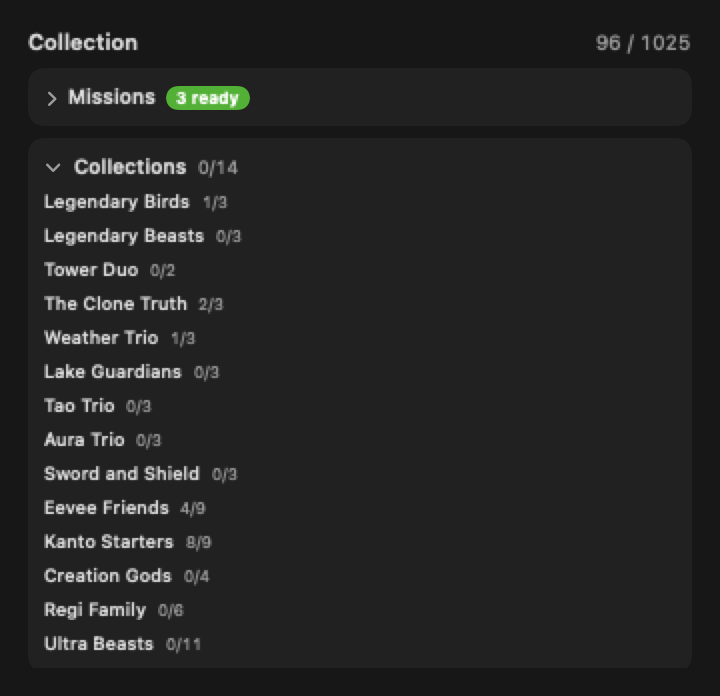
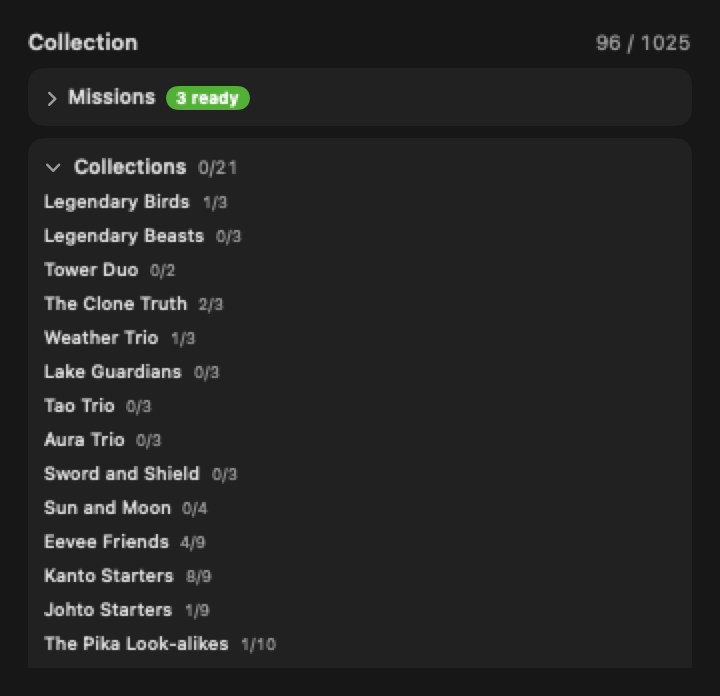
feat: seven more collection sets, fossils included
Per the user's ask for more variety, the catalog grows from fourteen to
twenty-one sets, each verified species-by-species against the slug
table:

- Revived Fossils: all 25 fossil Pokemon across six generations,
  restored lines included (EXP Candy x20)
- Pseudo-Legendaries, the 600 club: final stages only -- the title
  belongs to the finished form, so a Dratini must not fill it
  (Legendary ticket)
- Ancient and Future Paradoxes: ten each, split the way Scarlet and
  Violet split them, pinned disjoint (Legendary ticket each)
- The Pika Look-alikes: the once-a-generation electric mascot lineage,
  Mimikyu admitted for the costume (EXP Candy x10)
- Johto Starters (EXP Candy x10) and Sun and Moon
  (Lunatone/Solrock/Solgaleo/Lunala, badge only)

Lore pins added for the new sets: fossil count and generation coverage,
no pre-evolutions in the 600 club, paradox disjointness. Dropping the
Gen 8 fossils breaks 2 tests.

Changed region(s): [[0.0611, 0.8147, 0.3972, 0.9353], [0.0611, 0.7241, 0.3056, 0.7845], [0.3056, 0.2112, 0.3361, 0.2716]]

diff --git a/Sources/PokeDexBar/Player/CollectionCatalog.swift b/Sources/PokeDexBar/Player/CollectionCatalog.swift
@@ -28,6 +28,8 @@ enum CollectionCatalog {
         CollectionSet(id: "tao-trio", speciesIDs: [643, 644, 646], rewards: nil),
         CollectionSet(id: "aura-trio", speciesIDs: [716, 717, 718], rewards: nil),
         CollectionSet(id: "sword-shield", speciesIDs: [888, 889, 890], rewards: nil),
+        // 해와 달 — 루나톤·솔록(3세대의 달·해)과 솔가레오·루나아라(7세대의 해·달)를 잇는다.
+        CollectionSet(id: "sun-moon", speciesIDs: [337, 338, 791, 792], rewards: nil),
         // 중간 크기 — 진화가 필요한 세트는 경험치 사탕이 어울린다(그 사탕으로 마저 진화시킨다).
         CollectionSet(id: "eevee-friends",
                       speciesIDs: [133, 134, 135, 136, 196, 197, 470, 471, 700],
@@ -35,6 +37,19 @@ enum CollectionCatalog {
         CollectionSet(id: "kanto-starters",
                       speciesIDs: [1, 2, 3, 4, 5, 6, 7, 8, 9],
                       rewards: [.item(.expCandy, 10)]),
+        CollectionSet(id: "johto-starters",
+                      speciesIDs: [152, 153, 154, 155, 156, 157, 158, 159, 160],
+                      rewards: [.item(.expCandy, 10)]),
+        // 피카츄 닮은꼴 — 세대마다 하나씩 나오는 "전기 마스코트" 계보(따라큐는 위장으로 합류).
+        CollectionSet(id: "pika-clones",
+                      speciesIDs: [25, 311, 312, 417, 587, 702, 777, 778, 877, 921],
+                      rewards: [.item(.expCandy, 10)]),
+        // 되살린 화석 — 여섯 세대의 화석 25종 전부(복원 라인 포함).
+        CollectionSet(id: "fossils",
+                      speciesIDs: [138, 139, 140, 141, 142, 345, 346, 347, 348,
+                                   408, 409, 410, 411, 564, 565, 566, 567,
+                                   696, 697, 698, 699, 880, 881, 882, 883],
+                      rewards: [.item(.expCandy, 20)]),
         CollectionSet(id: "creation-gods", speciesIDs: [483, 484, 487, 493],
                       rewards: [.item(.expCandy, 20)]),
         // 큰 세트 — 레전더리 여섯·열하나라 확정권이 걸맞다.
@@ -42,6 +57,18 @@ enum CollectionCatalog {
                       rewards: [.eggTicket(.legendary)]),
         CollectionSet(id: "ultra-beasts",
                       speciesIDs: [793, 794, 795, 796, 797, 798, 799, 803, 804, 805, 806],
+                      rewards: [.eggTicket(.legendary)]),
+        // 600족 — **최종 진화형만** 센다. "유사 전설" 이라는 이름은 완성형의 것이라,
+        // 미뇽을 잡았다고 이 세트가 차오르면 이름이 거짓말이 된다.
+        CollectionSet(id: "pseudo-legendaries",
+                      speciesIDs: [149, 248, 373, 376, 445, 635, 706, 784, 887, 998],
+                      rewards: [.eggTicket(.legendary)]),
+        // 파라독스 — 고대와 미래를 가른다(본가의 스칼렛/바이올렛 구분 그대로).
+        CollectionSet(id: "paradox-past",
+                      speciesIDs: [984, 985, 986, 987, 988, 989, 1005, 1009, 1020, 1021],
+                      rewards: [.eggTicket(.legendary)]),
+        CollectionSet(id: "paradox-future",
+                      speciesIDs: [990, 991, 992, 993, 994, 995, 1006, 1010, 1022, 1023],
                       rewards: [.eggTicket(.legendary)]),
     ]
 
@@ -66,6 +93,13 @@ enum CollectionCatalog {
         case "tao-trio": names = ("타오 트리오", "Tao Trio", "タオトリオ")
         case "aura-trio": names = ("오라 트리오", "Aura Trio", "オーラトリオ")
         case "sword-shield": names = ("검과 방패", "Sword and Shield", "けんと たて")
+        case "sun-moon": names = ("해와 달", "Sun and Moon", "たいようと つき")
+        case "johto-starters": names = ("성도 스타터", "Johto Starters", "ジョウトの さいしょのポケモン")
+        case "pika-clones": names = ("피카츄 닮은꼴", "The Pika Look-alikes", "ピカチュウの にたものたち")
+        case "fossils": names = ("되살린 화석", "Revived Fossils", "よみがえった カセキ")
+        case "pseudo-legendaries": names = ("600족", "Pseudo-Legendaries", "600ぞく")
+        case "paradox-past": names = ("고대의 포켓몬", "Ancient Paradoxes", "パラドックス（こだい）")
+        case "paradox-future": names = ("미래의 포켓몬", "Future Paradoxes", "パラドックス（みらい）")
         case "eevee-friends": names = ("이브이 프렌즈", "Eevee Friends", "イーブイフレンズ")
         case "kanto-starters": names = ("관동 스타터", "Kanto Starters", "カントーの さいしょのポケモン")
         case "creation-gods": names = ("시공의 신", "Creation Gods", "じくうの かみがみ")

diff --git a/Tests/PokeDexBarTests/CollectionTests.swift b/Tests/PokeDexBarTests/CollectionTests.swift
@@ -58,6 +58,24 @@ final class CollectionTests: XCTestCase {
         XCTAssertTrue(eevee.speciesIDs.contains(700), "님피아가 빠졌다")
         let ub = try XCTUnwrap(CollectionCatalog.all.first { $0.id == "ultra-beasts" })
         XCTAssertEqual(ub.speciesIDs.count, 11)
+        // 화석 — 여섯 세대 25종(복원 라인 포함). 세대를 하나 빼먹으면 여기서 걸린다.
+        let fossils = try XCTUnwrap(CollectionCatalog.all.first { $0.id == "fossils" })
+        XCTAssertEqual(fossils.speciesIDs.count, 25)
+        XCTAssertTrue(fossils.speciesIDs.contains(142), "프테라가 빠졌다")
+        XCTAssertTrue(fossils.speciesIDs.contains(880), "8세대 화석이 빠졌다")
+        // 600족 — 최종 진화형만. 미뇽(147)이 들어오면 이름이 거짓말이 된다.
+        let pseudo = try XCTUnwrap(CollectionCatalog.all.first { $0.id == "pseudo-legendaries" })
+        XCTAssertEqual(pseudo.speciesIDs.count, 10)
+        XCTAssertTrue(pseudo.speciesIDs.contains(149))
+        XCTAssertFalse(pseudo.speciesIDs.contains(147), "600족에 미진화형이 들어왔다")
+        // 파라독스 — 고대와 미래는 겹치지 않는다(본가 구분 그대로).
+        let past = try XCTUnwrap(CollectionCatalog.all.first { $0.id == "paradox-past" })
+        let future = try XCTUnwrap(CollectionCatalog.all.first { $0.id == "paradox-future" })
+        XCTAssertEqual(past.speciesIDs.count, 10)
+        XCTAssertEqual(future.speciesIDs.count, 10)
+        XCTAssertTrue(Set(past.speciesIDs).isDisjoint(with: future.speciesIDs),
+                      "고대와 미래가 겹친다")
+        XCTAssertTrue(future.speciesIDs.contains(1006), "테츠노브지나(미래)가 빠졌다")
     }
 
     // MARK: 진행과 배지
